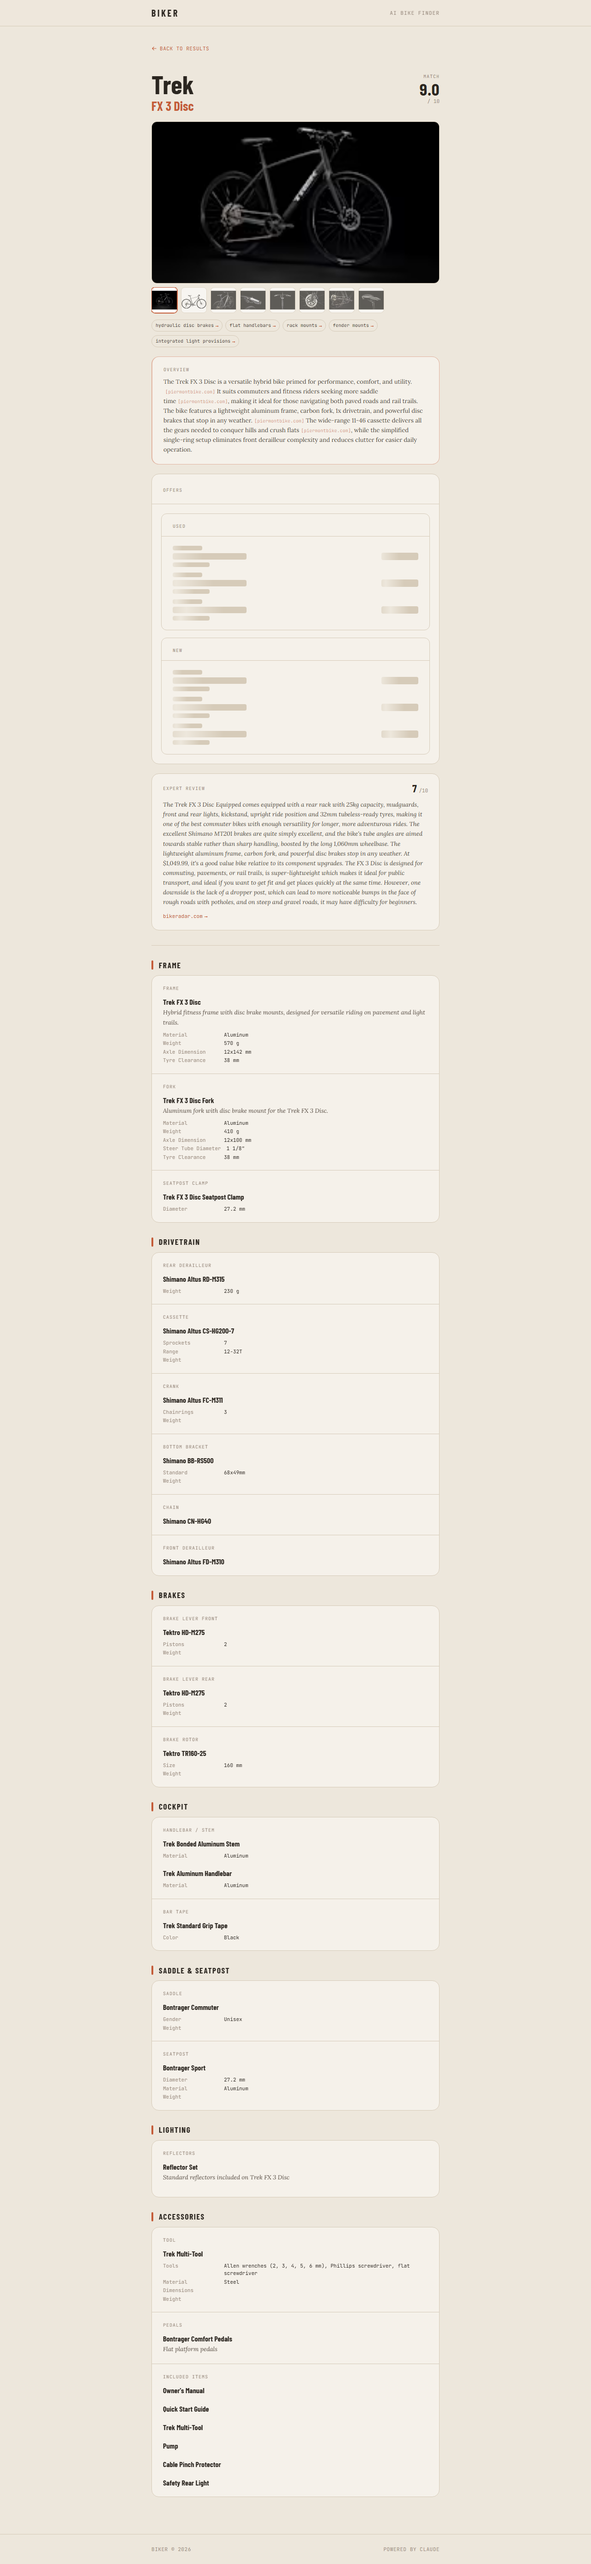
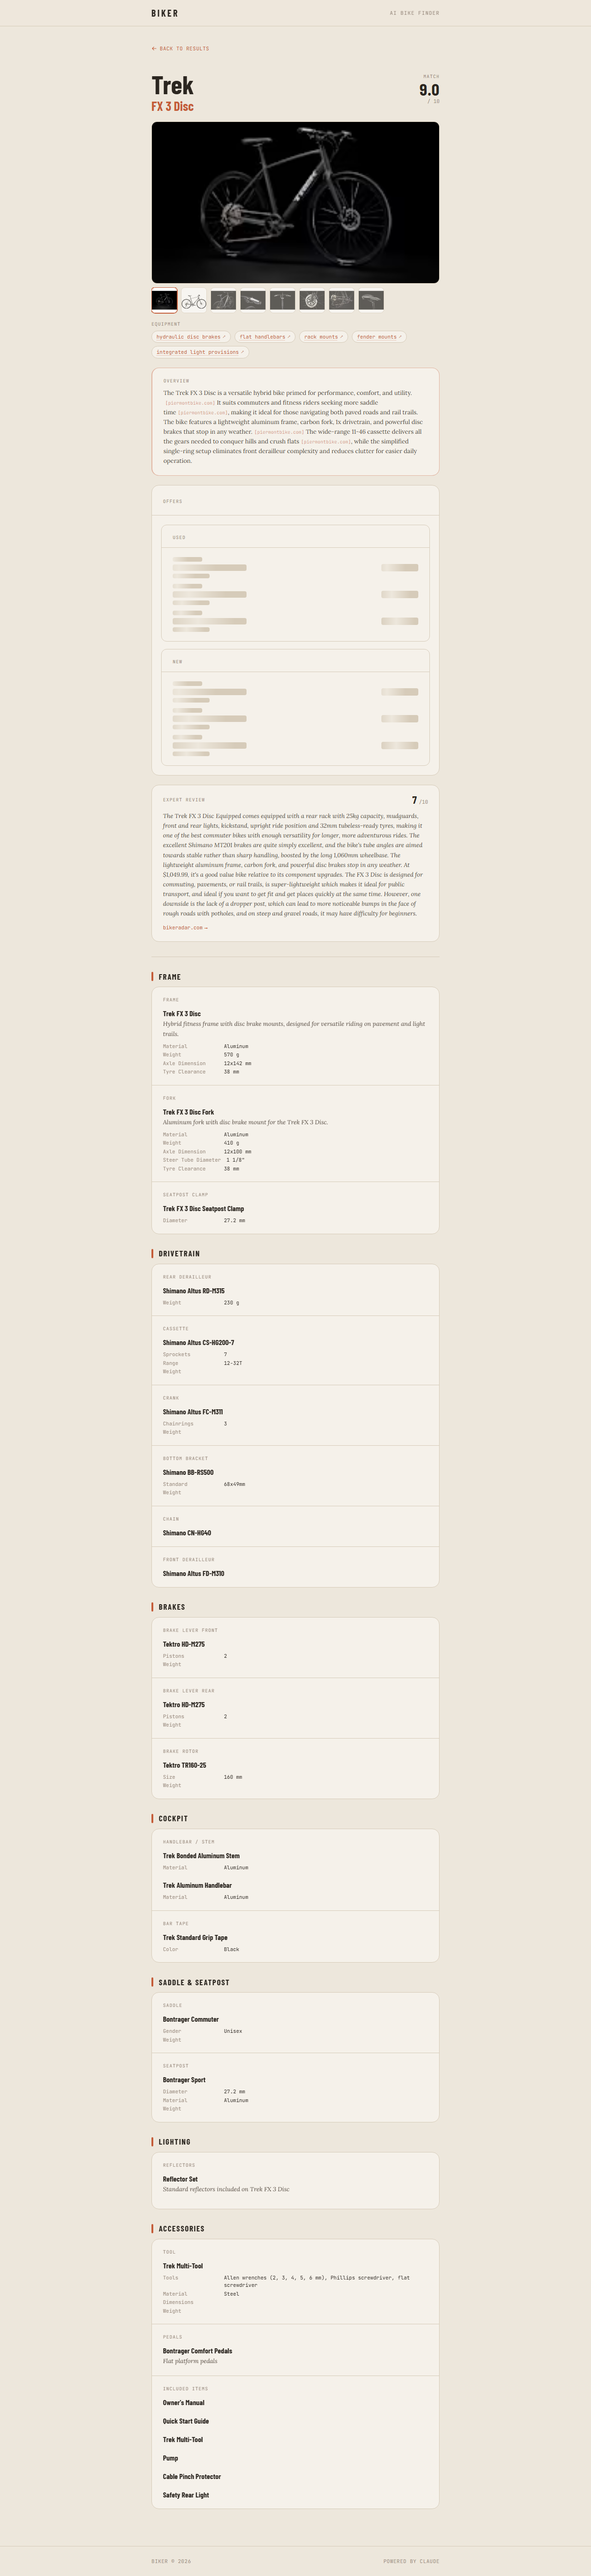
Style accessory chips as clear links to the equipment page
Terracotta text, dotted underline (solid on hover), persistent up-right
arrow, and an EQUIPMENT eyebrow label so the chips read as links rather
than passive tags.

Changed region(s): [[0.25, 0.0623, 0.7188, 0.9346]]

diff --git a/frontend/src/components/BikeDetailsView.tsx b/frontend/src/components/BikeDetailsView.tsx
@@ -101,26 +101,41 @@ export default function BikeDetailsView({
         )}
         {state !== 'loading' && <PhotoGallery photos={photos} />}
 
-        {/* Accessories — click a chip to open its equipment details page */}
+        {/* Equipment links — each accessory opens its equipment details page */}
         {accessories.filter(Boolean).length > 0 && (
-          <div className="mt-2">
-            <ul className="flex flex-wrap gap-1.5" aria-label="Equipment — tap for details">
+          <div className="mt-3">
+            <span className="font-mono text-[10px] text-muted uppercase tracking-widest block mb-1.5">
+              Equipment
+            </span>
+            <ul className="flex flex-wrap gap-x-2 gap-y-1.5" aria-label="Equipment — open details">
               {accessories.filter(Boolean).map((acc, i) => (
                 <li key={`${acc}-${i}`}>
                   <button
                     type="button"
                     onClick={() => onAccessorySelect(acc)}
                     className="
-                      font-mono text-[10px] text-ink px-2 py-0.5 bg-sand rounded-full border border-border
-                      inline-flex items-center gap-1 leading-5
-                      hover:border-terra hover:text-terra
+                      group inline-flex items-center gap-1 px-2.5 py-1
+                      rounded-full bg-parchment border border-border
+                      hover:border-terra hover:bg-sand
                       focus-visible:outline-none focus-visible:ring-2 focus-visible:ring-terra/40
                       transition-colors duration-150
                     "
                     aria-label={`View equipment details for ${acc}`}
                   >
-                    {acc}
-                    <span aria-hidden="true" className="text-terra">→</span>
+                    <span className="
+                      font-mono text-[11px] text-terra group-hover:text-terra-dark
+                      underline decoration-dotted decoration-terra/50 underline-offset-[3px]
+                      group-hover:decoration-solid group-hover:decoration-terra-dark
+                      transition-colors duration-150
+                    ">
+                      {acc}
+                    </span>
+                    <span
+                      aria-hidden="true"
+                      className="text-[10px] leading-none text-terra group-hover:text-terra-dark transition-colors duration-150"
+                    >
+                      ↗
+                    </span>
                   </button>
                 </li>
               ))}
